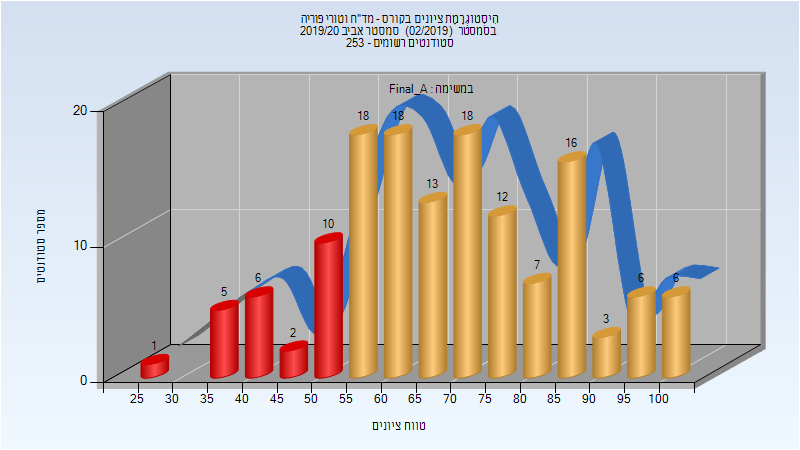
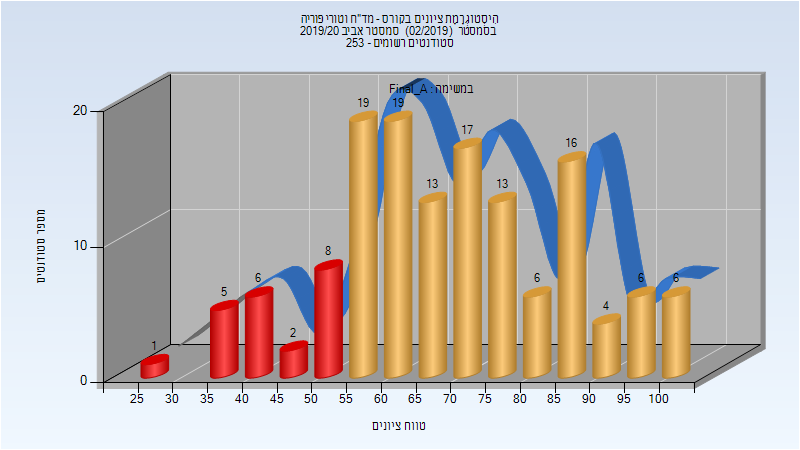
Deploy michael-maltsev/technion-histograms to github.com/michael-maltsev/technion-histograms.git:gh-pages

diff --git a/104223/index.html b/104223/index.html
@@ -2179,11 +2179,11 @@
 <tbody>
 <tr>
 <td>141</td>
-<td>31/110</td>
-<td>22</td>
+<td>32/109</td>
+<td>23</td>
 <td>0</td>
 <td>85</td>
-<td>38.298</td>
+<td>38.482</td>
 <td>38</td>
 </tr>
 </tbody>
@@ -2205,11 +2205,11 @@
 <tbody>
 <tr>
 <td>141</td>
-<td>117/24</td>
-<td>83</td>
+<td>119/22</td>
+<td>84</td>
 <td>27</td>
 <td>100</td>
-<td>69.121</td>
+<td>69.291</td>
 <td>69</td>
 </tr>
 </tbody>

diff --git a/044105/index.html b/044105/index.html
@@ -2025,7 +2025,7 @@
 <td>77</td>
 <td>29</td>
 <td>100</td>
-<td>71.014</td>
+<td>71.02</td>
 <td>73</td>
 </tr>
 </tbody>

diff --git a/104223/README.md b/104223/README.md
@@ -685,7 +685,7 @@
 
 | סטודנטים | עברו/נכשלו | אחוז עוברים | ציון מינימלי | ציון מקסימלי | ממוצע | חציון |
 | ---- | ---- | ---- | ---- | ---- | ---- | ---- |
-| 141 | 31/110 | 22 | 0 | 85 | 38.298 | 38 |
+| 141 | 32/109 | 23 | 0 | 85 | 38.482 | 38 |
 
 ### סופי מועד א'
 
@@ -693,5 +693,5 @@
 
 | סטודנטים | עברו/נכשלו | אחוז עוברים | ציון מינימלי | ציון מקסימלי | ממוצע | חציון |
 | ---- | ---- | ---- | ---- | ---- | ---- | ---- |
-| 141 | 117/24 | 83 | 27 | 100 | 69.121 | 69 |
+| 141 | 119/22 | 84 | 27 | 100 | 69.291 | 69 |
 

diff --git a/044105/README.md b/044105/README.md
@@ -629,7 +629,7 @@
 
 | סטודנטים | עברו/נכשלו | אחוז עוברים | ציון מינימלי | ציון מקסימלי | ממוצע | חציון |
 | ---- | ---- | ---- | ---- | ---- | ---- | ---- |
-| 147 | 113/34 | 77 | 29 | 100 | 71.014 | 73 |
+| 147 | 113/34 | 77 | 29 | 100 | 71.02 | 73 |
 
 ### סופי
 
